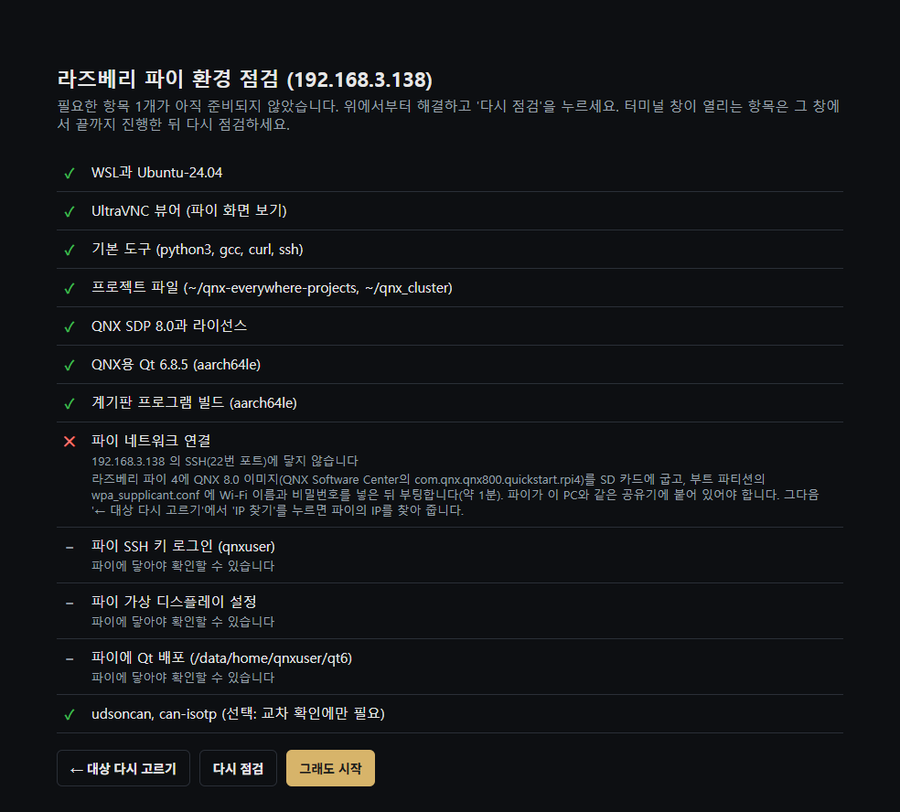
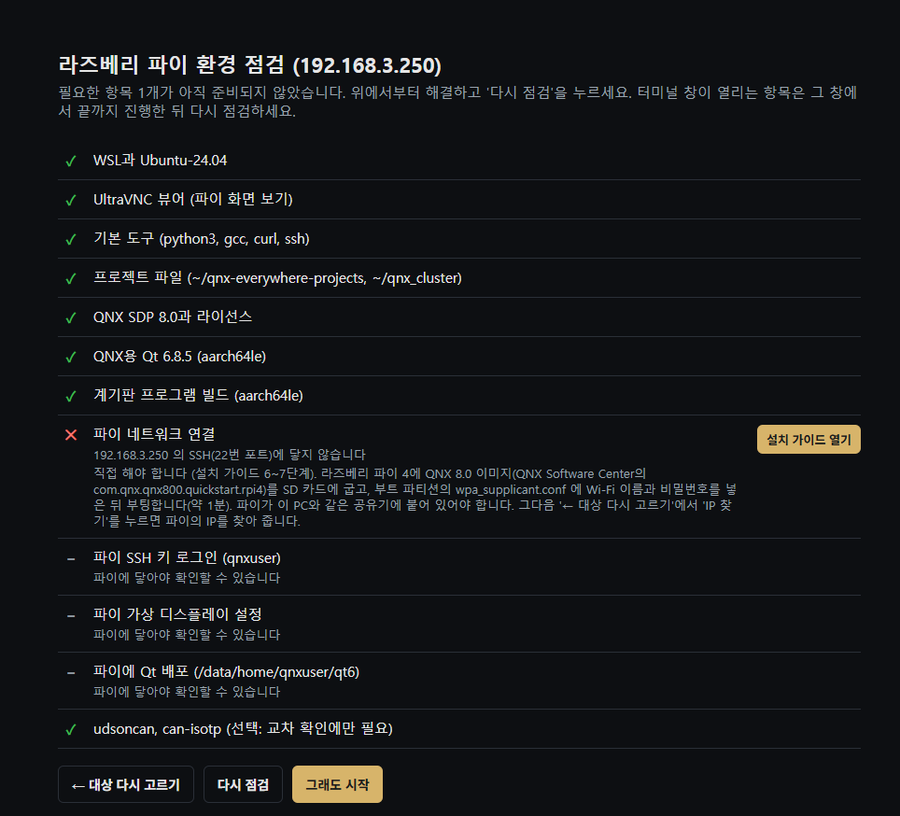
Bring the setup guides up to date with the launcher
- The guide button: the tables and SETUP_GUIDE.md describe "설치 가이드 열기"
  instead of "no button"; the Pi check screenshot shows it.
- The end-to-end test: a Wi-Fi stall before the fault also gets one more try.
- Troubles: a VM that boots without an IP (wsl --shutdown), finding the Pi
  again after a Wi-Fi change.
- The dates of the last test runs; a blank line before a heading.

Changed region(s): [[0.0622, 0.1847, 0.9022, 0.9852], [0.0622, 0.0616, 0.9644, 0.1847], [0.84, 0.4926, 0.9644, 0.5542]]

diff --git a/qnx_cluster/SETUP_GUIDE_QEMU.md b/qnx_cluster/SETUP_GUIDE_QEMU.md
@@ -44,7 +44,7 @@
 | 자동으로 고치기 | exe가 알아서 합니다. |
 | 터미널에서 실행 | 검은 창이 열립니다. sudo 비밀번호를 그 창에 입력하고, 끝나면 Enter로 닫습니다. |
 | 설치 (관리자 권한) | WSL을 설치합니다. |
-| (버튼 없음) | 안내대로 직접 합니다. 아래 해당 단계를 보세요. |
+| 설치 가이드 열기 | 직접 해야 하는 항목입니다. 점검 화면에 할 일이 적혀 있고, 버튼을 누르면 이 가이드의 해당 단계가 브라우저에서 열립니다. |
 
 ---
 
@@ -234,6 +234,7 @@ bash 3_qnx_qt.sh
 3. **테스트 콘솔**이 열립니다.
 
 ![QEMU 창의 계기판](guide_images/vm_qemu_cluster.png)
+
 ### 동작 확인
 
 1. 콘솔 위쪽 상태 표시(VM ssh 연결, cluster_gateway, qt_cluster, cluster_diag, UDS 응답)가 모두 초록인지 봅니다.
@@ -266,6 +267,7 @@ ClusterConsole.exe --vm
 |---|---|
 | "/dev/kvm 권한" 실패 | 버튼을 누르고 sudo 비밀번호를 넣습니다. 사용자를 `kvm` 그룹에 넣으므로 한 번이면 됩니다. 예전 방식(`chmod`만)으로 했다면 WSL을 다시 시작할 때마다 실패하니 버튼을 한 번 더 누릅니다. |
 | VM이 부팅되지 않음 | `mkqnximage --run`을 여러 번 쓰면 디스크 설정 파일에 줄이 쌓여 부팅이 안 될 수 있습니다(6단계 경고). exe나 `start_env.sh`로 시작하면 부팅 전에 고칩니다. |
+| VM은 부팅됐는데 IP를 받지 못함 (ssh 시간 초과) | WSL이 완전히 다시 시작되지 않아 VM에 IP를 주는 libvirt 네트워크가 꺼진 경우입니다. PowerShell에서 `wsl --shutdown`을 실행한 뒤 exe를 다시 실행합니다. |
 | VM IP가 다름 | VM 화면의 QNX 터미널에서 `ifconfig`로 IP를 보고 exe 첫 화면의 VM IP를 고칩니다. |
 | Qt 빌드가 멈추거나 실패 | 대개 메모리 부족입니다. `.wslconfig`를 적용하고 같은 버튼을 다시 누릅니다. |
 | `qcc`가 라이선스 오류 | Software Center에서 라이선스를 받지 않았습니다 (3단계). |
